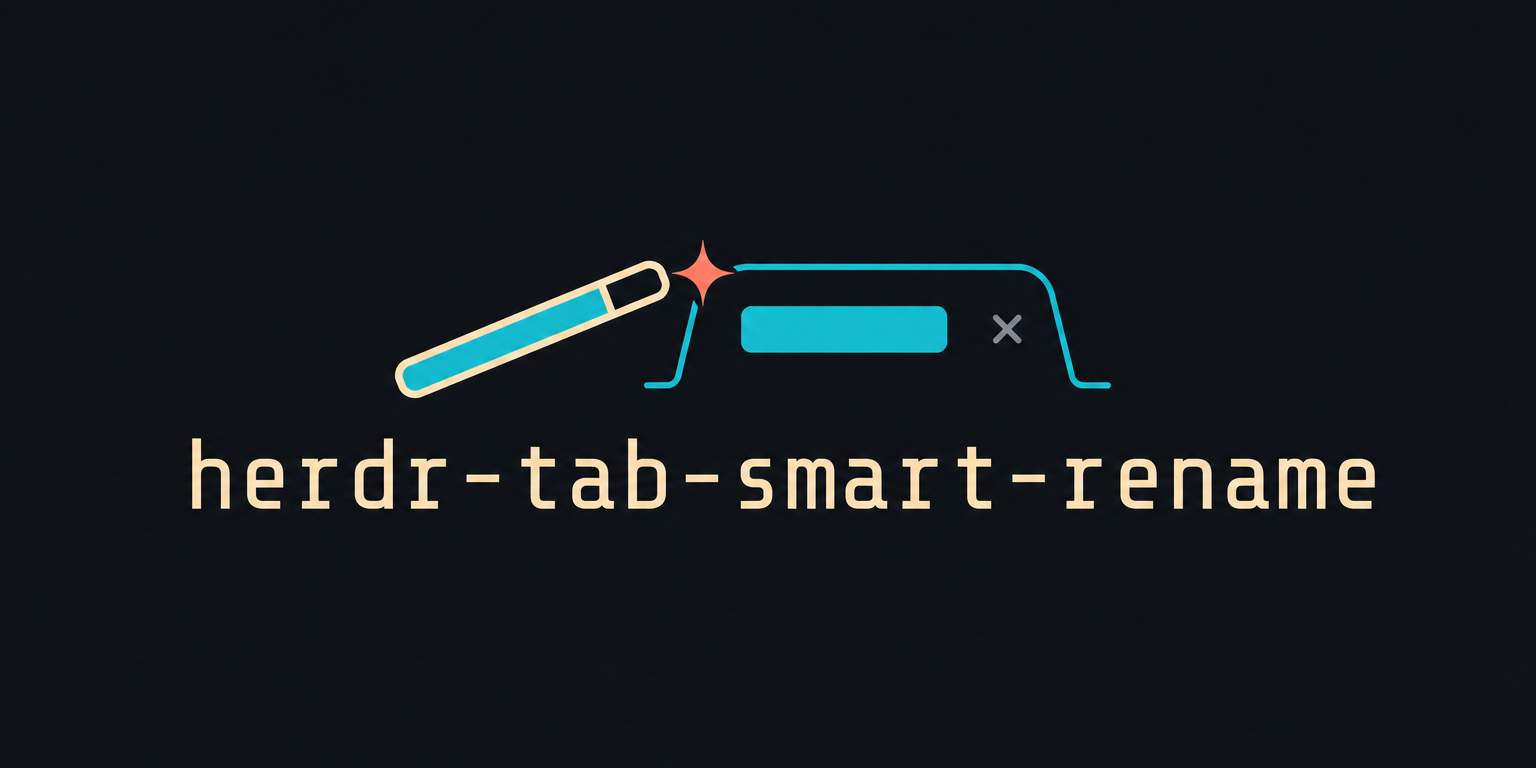
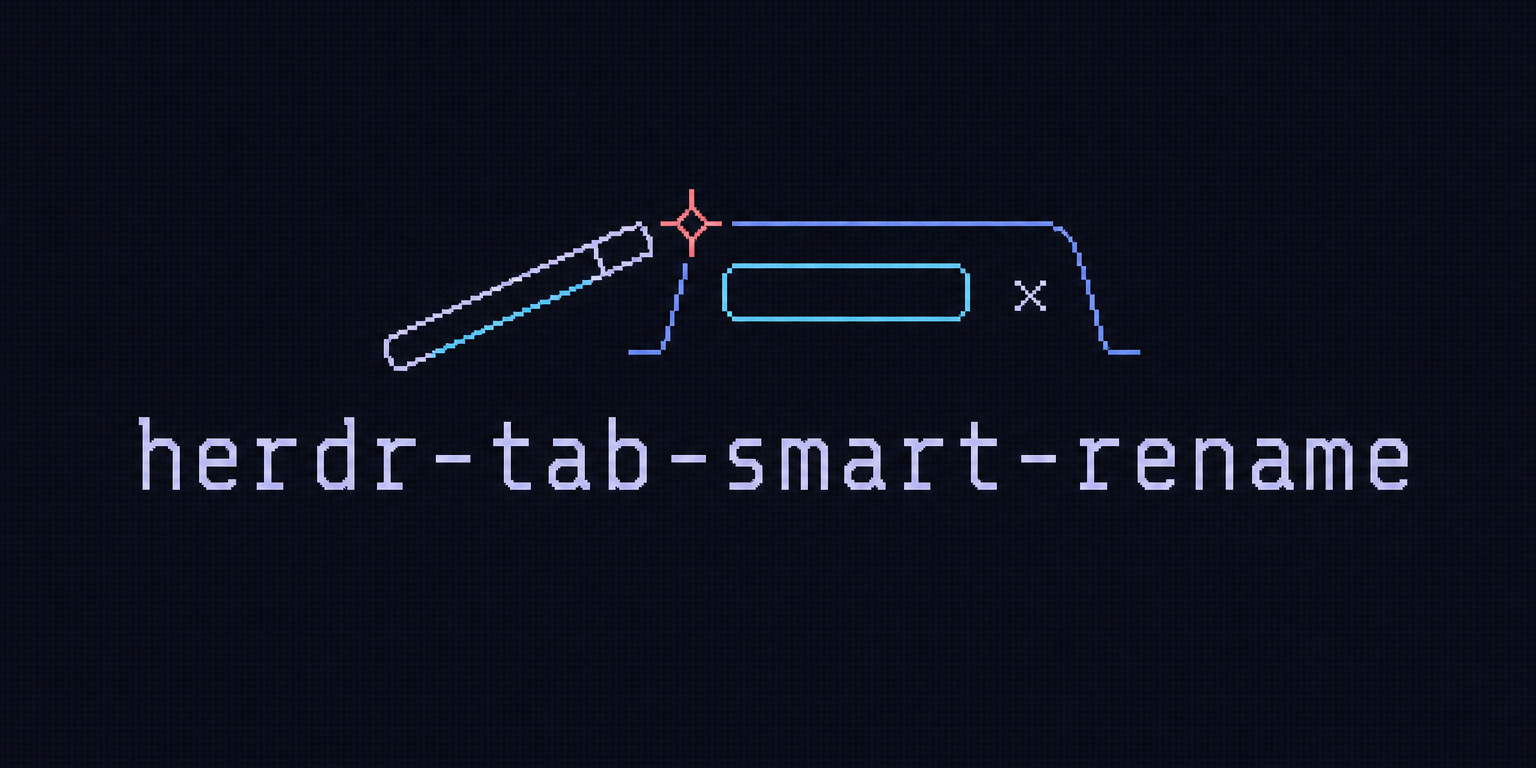
docs: refresh cover and tighten README

Changed region(s): [[0.0938, 0.5312, 0.9375, 0.6875], [0.25, 0.25, 0.75, 0.5312], [0.4062, 0.5, 0.4375, 0.5312]]

diff --git a/README.md b/README.md
@@ -1,28 +1,20 @@
 <p align="center">
-  <img src="assets/herdr-tab-smart-rename-banner.png" width="720" alt="Magic wand naming a Herdr tab">
+  <img src="assets/herdr-tab-smart-rename-banner.png" width="720" alt="Pixel wand renaming a terminal tab">
 </p>
 
 <h1 align="center">herdr-tab-smart-rename</h1>
 
 <p align="center"><strong>Tabs that say what the work is.</strong></p>
 
-Smart Rename turns default workspace and tab numbers into short task labels while leaving user-chosen names alone.
-
-```text
-3  ->  Repair Tab Ownership
-4  ->  Run Tests
-5  ->  Dev Server
-```
-
-Smart Rename labels tabs from their current work—useful when you cannot remember what an agent was doing. Recognized processes get instant deterministic names; ambiguous work uses OpenAI GPT-5.6 Luna by default or another OpenAI-compatible model.
+Smart Rename turns numbered Herdr tabs into short task labels. Known processes get instant names such as `Run Tests`, `Dev Server`, and `View Logs`; ambiguous work uses an OpenAI-compatible model. Manual names always win.
 
 ## Demo
 
 https://github.com/user-attachments/assets/c9d12c33-e458-4a29-986c-c403d64aff02
 
-## Install
+## Quick start
 
-Requires Herdr 0.7.0 or newer and Bun 1.1.34 or newer.
+Requires Herdr 0.7.0+ and Bun 1.1.34+.
 
 ```sh
 herdr plugin install iurysza/herdr-tab-smart-rename
@@ -31,17 +23,15 @@ herdr plugin action invoke check-ai --plugin tab-smart-rename
 herdr plugin action invoke start --plugin tab-smart-rename
 ```
 
-`configure-ai` opens `~/.config/herdr/plugins/config/tab-smart-rename/provider.env`. Add your OpenAI key:
+`configure-ai` opens `~/.config/herdr/plugins/config/tab-smart-rename/provider.env`. For the default OpenAI GPT-5.6 Luna setup, add:
 
 ```dotenv
 OPENAI_API_KEY=...
 ```
 
-The file starts from [`provider.env.example`](provider.env.example), so the endpoint, model, reasoning, and timeout are ready to use. Without a key, deterministic names still work. Model-backed names do not.
+Without a key, deterministic names still work.
 
-## Use
-
-Suggested Herdr bindings:
+## Keybindings
 
 ```toml
 [[keys.command]]
@@ -57,68 +47,36 @@ command = "tab-smart-rename.rename-all"
 description = "force smart rename all tabs"
 ```
 
-| Action | What it does |
-| --- | --- |
-| `rename-now` | Rename the current tab now |
-| `rename-all` | Rename every tab in sequence |
-| `reset-tab` | Return the current tab to automatic naming |
-| `reset-workspace` | Return the current workspace to automatic naming |
-| `configure-ai` | Edit provider settings |
-| `configure-prompt` | Edit the naming instructions |
-| `check-ai` | Check provider and prompt settings without making a model request |
-| `start` / `stop` / `status` | Control or inspect Smart Rename |
+Every explicit rename ends with a notification: renamed, not renamed, or failed.
 
-Run any action with:
+## Actions
+
+| Action | Effect |
+| --- | --- |
+| `rename-now` | Rename the current tab |
+| `rename-all` | Rename every tab |
+| `reset-tab` | Return the current tab to automatic naming |
+| `reset-workspace` | Return the workspace to automatic naming |
+| `configure-ai` | Edit provider settings |
+| `configure-prompt` | Edit naming instructions |
+| `check-ai` | Validate config without calling the provider |
+| `start` / `stop` / `status` | Control the worker |
 
 ```sh
 herdr plugin action invoke <action> --plugin tab-smart-rename
 ```
 
-Explicit rename actions reclaim manual tabs and request fresh names.
+## Naming behavior
 
-## Naming rules
+Smart Rename uses one dominant pane: focused agent, another active agent, focused command, then first pane. Supporting servers and logs never replace an active agent's task.
 
-Smart Rename uses the most relevant pane in each tab:
+Labels use 2–4 Title Case words, stay under 30 characters, and describe the task—not its tool, model, or project. Weak evidence produces no rename. Manual labels remain locked until reset or explicit rename.
 
-1. the focused agent;
-2. another working or blocked agent;
-3. the focused command;
-4. the first pane.
+See the [naming policy](docs/naming-policy.md) for the full contract.
 
-Tests, development servers, log followers, and remote shells become `Run Tests`, `Dev Server`, `View Logs`, and `Remote Shell`. Agent tasks and unclear commands may use the configured model.
+## Configuration
 
-Labels use 2 to 4 Title Case words and no more than 30 characters. Workspaces describe projects. Tabs describe tasks. Manual names always win until you reset or explicitly rename them.
-
-The [naming policy](docs/naming-policy.md) is both the human-readable contract and the default AI system prompt.
-
-## Customize the naming prompt
-
-Run `configure-prompt` to create and open your private copy:
-
-```sh
-herdr plugin action invoke configure-prompt --plugin tab-smart-rename
-```
-
-You can replace the default policy with something as short as:
-
-```md
-Name the current persistent task.
-
-- Use 2–4 Title Case words, at most 30 characters.
-- Start with an action verb.
-- Omit project, app, agent, and model names.
-
-Return JSON only: {"tab":"Assess Python Migration","reason":"The user is researching migration effort."}
-If unclear: {"tab":null,"reason":"no meaningful task"}
-```
-
-Your copy lives at `~/.config/herdr/plugins/config/tab-smart-rename/naming-prompt.md` and survives plugin updates. To keep the bundled policy instead, do nothing. To use another file, set `SMART_RENAME_PROMPT_PATH` in `provider.env`; relative paths resolve from the plugin config directory.
-
-Smart Rename reloads the prompt before every model request. Output still must satisfy the built-in JSON and label validation.
-
-## Choose a provider and model
-
-The defaults are exposed in [`provider.env.example`](provider.env.example):
+Provider defaults live in [`provider.env.example`](provider.env.example):
 
 ```dotenv
 SMART_RENAME_PROVIDER=openai
@@ -128,28 +86,43 @@ SMART_RENAME_REASONING_EFFORT=medium
 SMART_RENAME_TIMEOUT_MS=45000
 ```
 
-Set those values and `SMART_RENAME_API_KEY` to use another OpenAI-compatible provider. `OPENAI_API_KEY` works for OpenAI; `KIMI_API_KEY` works when `SMART_RENAME_PROVIDER=kimi-code`. Reasoning effort accepts `low`, `medium`, or `high` when the model supports it.
+Use `SMART_RENAME_API_KEY` for another OpenAI-compatible provider. `OPENAI_API_KEY` and Kimi's `KIMI_API_KEY` are also supported when their provider is selected. Config reloads before every model request.
 
-Smart Rename reloads `provider.env` before every model request. You do not need to restart the worker after changing it.
+### Custom prompt
+
+The default system prompt is [`docs/naming-policy.md`](docs/naming-policy.md). Create a private editable copy with:
+
+```sh
+herdr plugin action invoke configure-prompt --plugin tab-smart-rename
+```
+
+It opens `~/.config/herdr/plugins/config/tab-smart-rename/naming-prompt.md`. A prompt can be this small:
+
+```md
+Name the current persistent task in 2–4 Title Case words.
+Omit project, app, agent, and model names.
+Return JSON only: {"tab":"Assess Python Migration","reason":"Current task."}
+If unclear: {"tab":null,"reason":"no meaningful task"}
+```
+
+Set `SMART_RENAME_PROMPT_PATH` to use another file. Prompts reload per request; built-in JSON and label validation still applies.
 
 ## Privacy
 
-To name a tab, Smart Rename may send the most relevant pane's command and recent output to your AI provider. If that pane is running Pi, it may also include short excerpts from your requests so the name reflects the actual task.
+Model requests contain bounded, sanitized evidence from the dominant pane. Pi panes may contribute short user-request excerpts; sibling panes contribute process summaries only. Smart Rename removes terminal formatting, common secret shapes, and the local home path before sending context.
 
-Before sending anything, Smart Rename removes terminal formatting, common secrets, and your home-directory path, then limits how much text is included. Other panes contribute process names only—not terminal or chat content.
-
-Smart Rename never starts Pi or reads its credentials. Your AI provider key stays in Herdr's private plugin config and never appears in Smart Rename's state or logs.
+Provider keys stay in Herdr's private plugin config and never enter Smart Rename state or logs.
 
 ## Troubleshooting
 
 - Worker stopped: `herdr plugin action invoke start --plugin tab-smart-rename`
-- Provider missing: run `configure-ai`, save the key, then run `check-ai`.
-- Manual label stays unchanged: use `reset-tab` or an explicit rename action.
-- No model name appears: the model may have found no meaningful task.
-- Worker logs: `herdr plugin log list --plugin tab-smart-rename --limit 10`
+- Config invalid: run `configure-ai`, then `check-ai`.
+- Authentication fails: ensure the key matches the configured endpoint and model; `check-ai` does not make an API request.
+- Manual label stays: use `reset-tab` or an explicit rename.
+- Logs: `herdr plugin log list --plugin tab-smart-rename --limit 10`
 
-## Project documentation
+## Documentation
 
+- [Naming policy](docs/naming-policy.md)
 - [Semantic map](ai-artifacts/SEMANTIC_MAP.md)
 - [Architecture](ai-artifacts/ARCHITECTURE.md)
-- [Naming policy](docs/naming-policy.md)